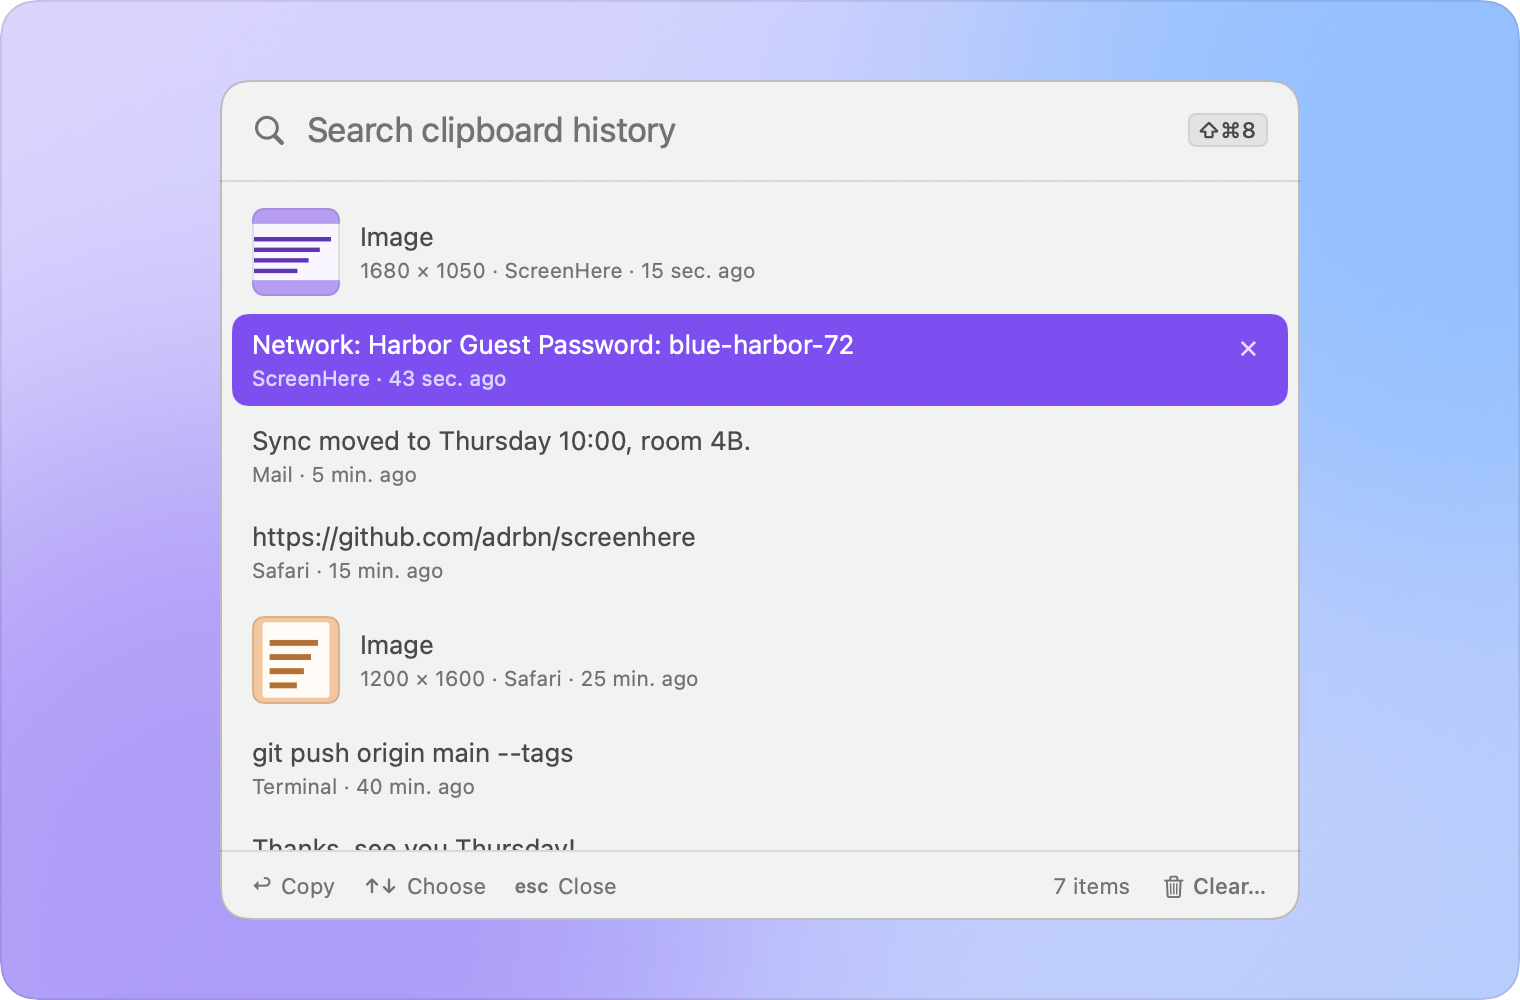
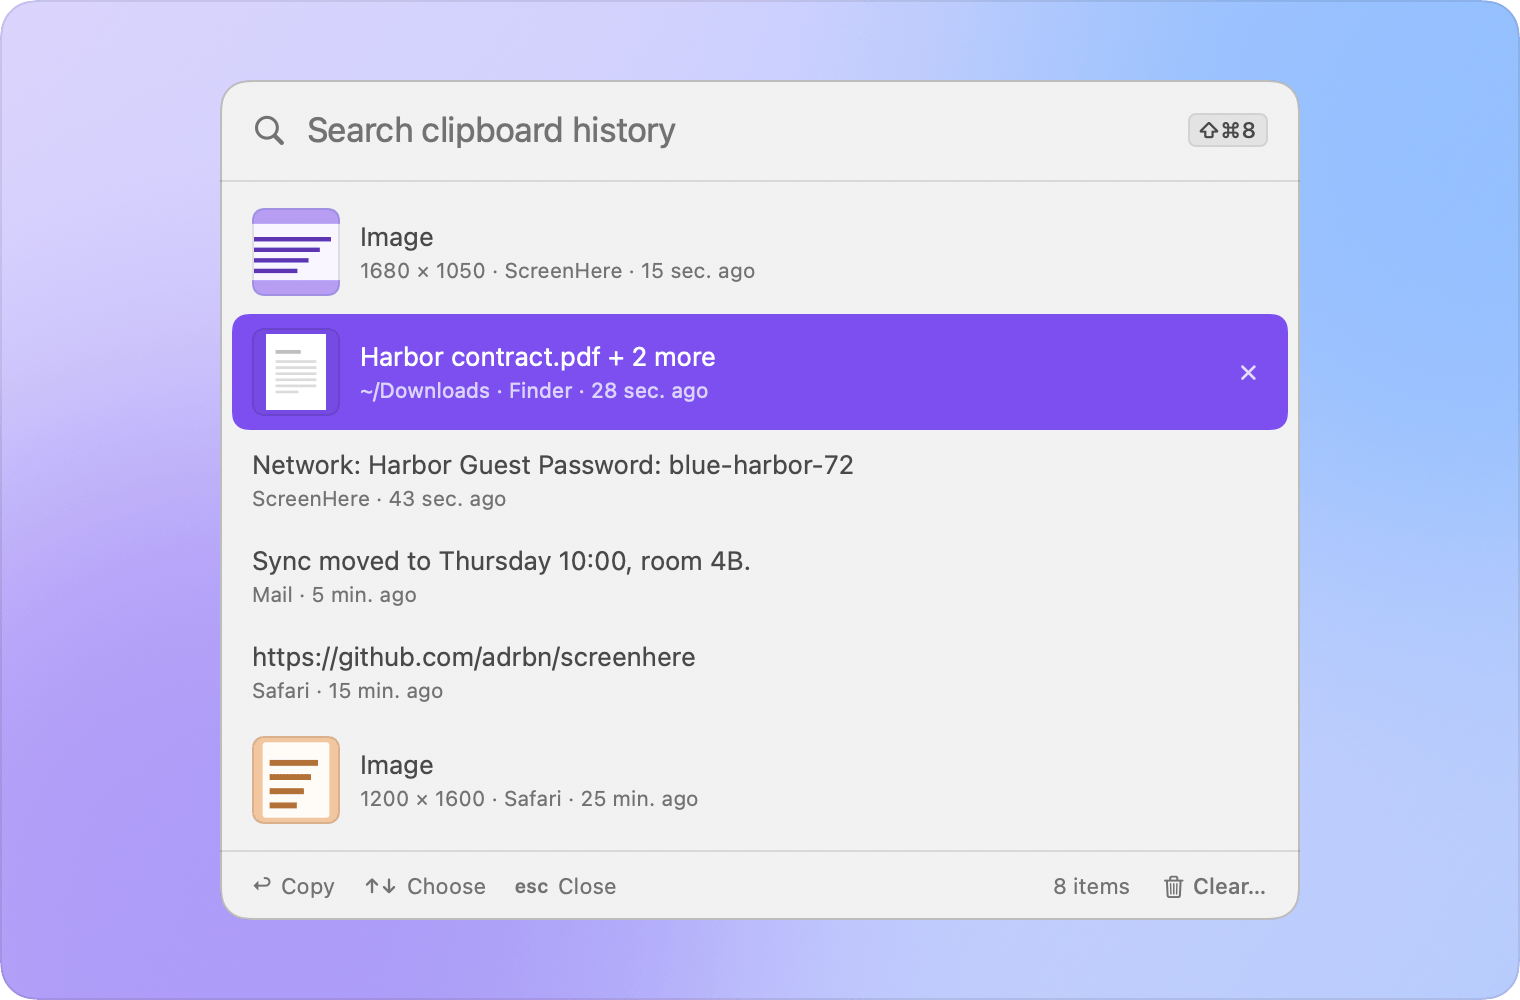
docs: show a copied file in the history picture
The ⇧⌘8 shot now has a file copied from the Finder in it, since that is
what the list does as of this version. The files it names are posed, like
every other row: nothing is read from the real clipboard.

Releases can also carry notes written for the people updating, through
RELEASE_NOTES, instead of the commit subjects — which read as a changelog
to whoever wrote them and as nothing much to anyone else.

Changed region(s): [[0.1546, 0.31, 0.8658, 0.868], [0.2783, 0.837, 0.3711, 0.868], [0.8039, 0.341, 0.8349, 0.372]]

diff --git a/Sources/ScreenHere/HistoryPickerView.swift b/Sources/ScreenHere/HistoryPickerView.swift
@@ -59,11 +59,13 @@ struct HistoryPickerView: View {
                 LazyVStack(spacing: 2) {
                     ForEach(Array(results.enumerated()), id: \.element.id) { index, item in
                         let link = links.isEnabled ? item.text.flatMap(CopiedLink.init(text:)) : nil
-                        let copied = item.files?.first
+                        let copied = item.files
                         HistoryRow(item: item,
                                    thumbnail: item.image.flatMap(clipboard.thumbnail(for:)),
                                    file: item.image.map(clipboard.fileURL(for:)),
-                                   filePicture: copied.flatMap(filePictures.thumbnail(for:)),
+                                   filePicture: copied?.first.flatMap(filePictures.thumbnail(for:)),
+                                   fileMissing: !filePictures.posed
+                                       && copied?.allSatisfy { !$0.exists } == true,
                                    link: link,
                                    linkPreview: link.flatMap(links.preview(for:)),
                                    isSelected: index == model.selection,
@@ -74,7 +76,7 @@ struct HistoryPickerView: View {
                             .onHover { if $0 { model.selection = index } }
                             .onAppear {
                                 if let link { links.want(link) }
-                                if let copied { filePictures.want(copied) }
+                                if let first = copied?.first { filePictures.want(first) }
                             }
                     }
                 }
@@ -186,6 +188,8 @@ private struct HistoryRow: View {
     let file: URL?
     /// Quick Look's picture of the copied file, once it has one.
     let filePicture: NSImage?
+    /// None of the copied files is on this Mac any more.
+    let fileMissing: Bool
     /// Set only while link previews are on.
     let link: CopiedLink?
     let linkPreview: LinkPreviewController.Shown?
@@ -199,7 +203,7 @@ private struct HistoryRow: View {
             if item.image != nil {
                 Thumbnail(image: thumbnail, file: file)
             } else if let copied = item.files?.first {
-                FileTile(picture: filePicture, file: copied, missing: missing)
+                FileTile(picture: filePicture, file: copied, missing: fileMissing)
             } else if let link {
                 LinkTile(icon: linkPreview?.icon, visited: link.mayVisit, isSelected: isSelected)
             }
@@ -214,7 +218,7 @@ private struct HistoryRow: View {
             }
             // A file that has moved is still listed — the disk it was on may
             // come back — but it reads as out of reach.
-            .opacity(missing ? 0.5 : 1)
+            .opacity(fileMissing ? 0.5 : 1)
             Spacer(minLength: 6)
             // Always here, even unseen: buttons that appear with the selection
             // would narrow the text, rewrap it, and push every row below.
@@ -243,12 +247,6 @@ private struct HistoryRow: View {
         .onTapGesture(perform: onChoose)
     }
 
-    /// Nothing the row points at is on this Mac any more.
-    private var missing: Bool {
-        guard let files = item.files else { return false }
-        return files.allSatisfy { !$0.exists }
-    }
-
     /// A link reads as its page's title once there is one, and as its address
     /// without the scheme until then.
     private var title: String {
@@ -258,7 +256,7 @@ private struct HistoryRow: View {
 
     /// Under a page title, the site it is on.
     private var subtitle: String {
-        if missing { return "Missing · \(Self.subtitle(item))" }
+        if fileMissing { return "Missing · \(Self.subtitle(item))" }
         guard let link, linkPreview?.title != nil else { return Self.subtitle(item) }
         return "\(link.host) · \(Self.subtitle(item))"
     }

diff --git a/scripts/readme-shots.swift b/scripts/readme-shots.swift
@@ -446,6 +446,25 @@ struct ReadmeShots {
                 return true
             }
         }
+        /// A page, for the posed picture Quick Look would make of a PDF.
+        func page(_ w: Int, _ h: Int) -> NSImage {
+            NSImage(size: NSSize(width: w, height: h), flipped: false) { r in
+                NSColor.white.setFill(); r.fill()
+                NSColor(white: 0.75, alpha: 1).setFill()
+                NSRect(x: r.width * 0.16, y: r.height * 0.74, width: r.width * 0.42, height: r.height * 0.05).fill()
+                NSColor(white: 0.86, alpha: 1).setFill()
+                for i in 0..<6 {
+                    NSRect(x: r.width * 0.16, y: r.height * (0.62 - Double(i) * 0.08),
+                           width: r.width * (i == 5 ? 0.38 : 0.68), height: r.height * 0.035).fill()
+                }
+                return true
+            }
+        }
+        let downloads = FileManager.default.homeDirectoryForCurrentUser.appendingPathComponent("Downloads")
+        let copiedFiles = ["Harbor contract.pdf", "Site plan.png", "Invoice 2026-04.pdf"]
+            .map { ClipFile(path: downloads.appendingPathComponent($0).path) }
+        FileThumbnails.shared.pose([copiedFiles[0].path: page(140, 180)])
+
         let shot = ClipImage(digest: "shot", format: .png, width: 1680, height: 1050, byteCount: 2_100_000)
         let photo = ClipImage(digest: "photo", format: .jpeg, width: 1200, height: 1600, byteCount: 420_000)
         let history = ClipboardHistory.empty
@@ -455,6 +474,7 @@ struct ReadmeShots {
             .adding("https://github.com/adrbn/screenhere", source: "Safari", at: now.addingTimeInterval(-900))
             .adding("Sync moved to Thursday 10:00, room 4B.", source: "Mail", at: now.addingTimeInterval(-300))
             .adding(TextScene.selected, source: "ScreenHere", at: now.addingTimeInterval(-40))
+            .adding(files: copiedFiles, source: "Finder", at: now.addingTimeInterval(-25))
             .adding(image: shot, source: "ScreenHere", at: now.addingTimeInterval(-12))
         ClipboardController.shared.pose(history, enabled: true,
                                         thumbnails: ["shot": drawing(240, 150, 0.72), "photo": drawing(180, 240, 0.08)])
@@ -478,7 +498,8 @@ struct ReadmeShots {
             export(ShotHero(panel: panel, dark: dark), dark: dark, to: "\(out)/hero-\(name).png")
             export(CaptureScene(dark: dark), dark: dark, to: "\(out)/capture-\(name).png")
             export(TextScene(dark: dark), dark: dark, to: "\(out)/text-\(name).png")
-            let pickerImage = snapshot(HistoryPickerView(model: picker, clipboard: .shared, links: .shared),
+            let pickerImage = snapshot(HistoryPickerView(model: picker, clipboard: .shared, links: .shared,
+                                                         filePictures: .shared),
                                        width: 540, height: 420, dark: dark, background: .clear, key: false)
             export(HistoryScene(picker: pickerImage, dark: dark), dark: dark, to: "\(out)/history-\(name).png")
         }

diff --git a/Sources/ScreenHere/FileThumbnails.swift b/Sources/ScreenHere/FileThumbnails.swift
@@ -37,5 +37,16 @@ final class FileThumbnails: ObservableObject {
     func clear() {
         ready = [:]
         asked = []
+        posed = false
+    }
+
+    /// Documentation shots only: pictures for files that are not on this Mac,
+    /// whose rows must still read as within reach.
+    private(set) var posed = false
+
+    func pose(_ pictures: [String: NSImage]) {
+        ready = pictures
+        asked = Set(pictures.keys)
+        posed = true
     }
 }
